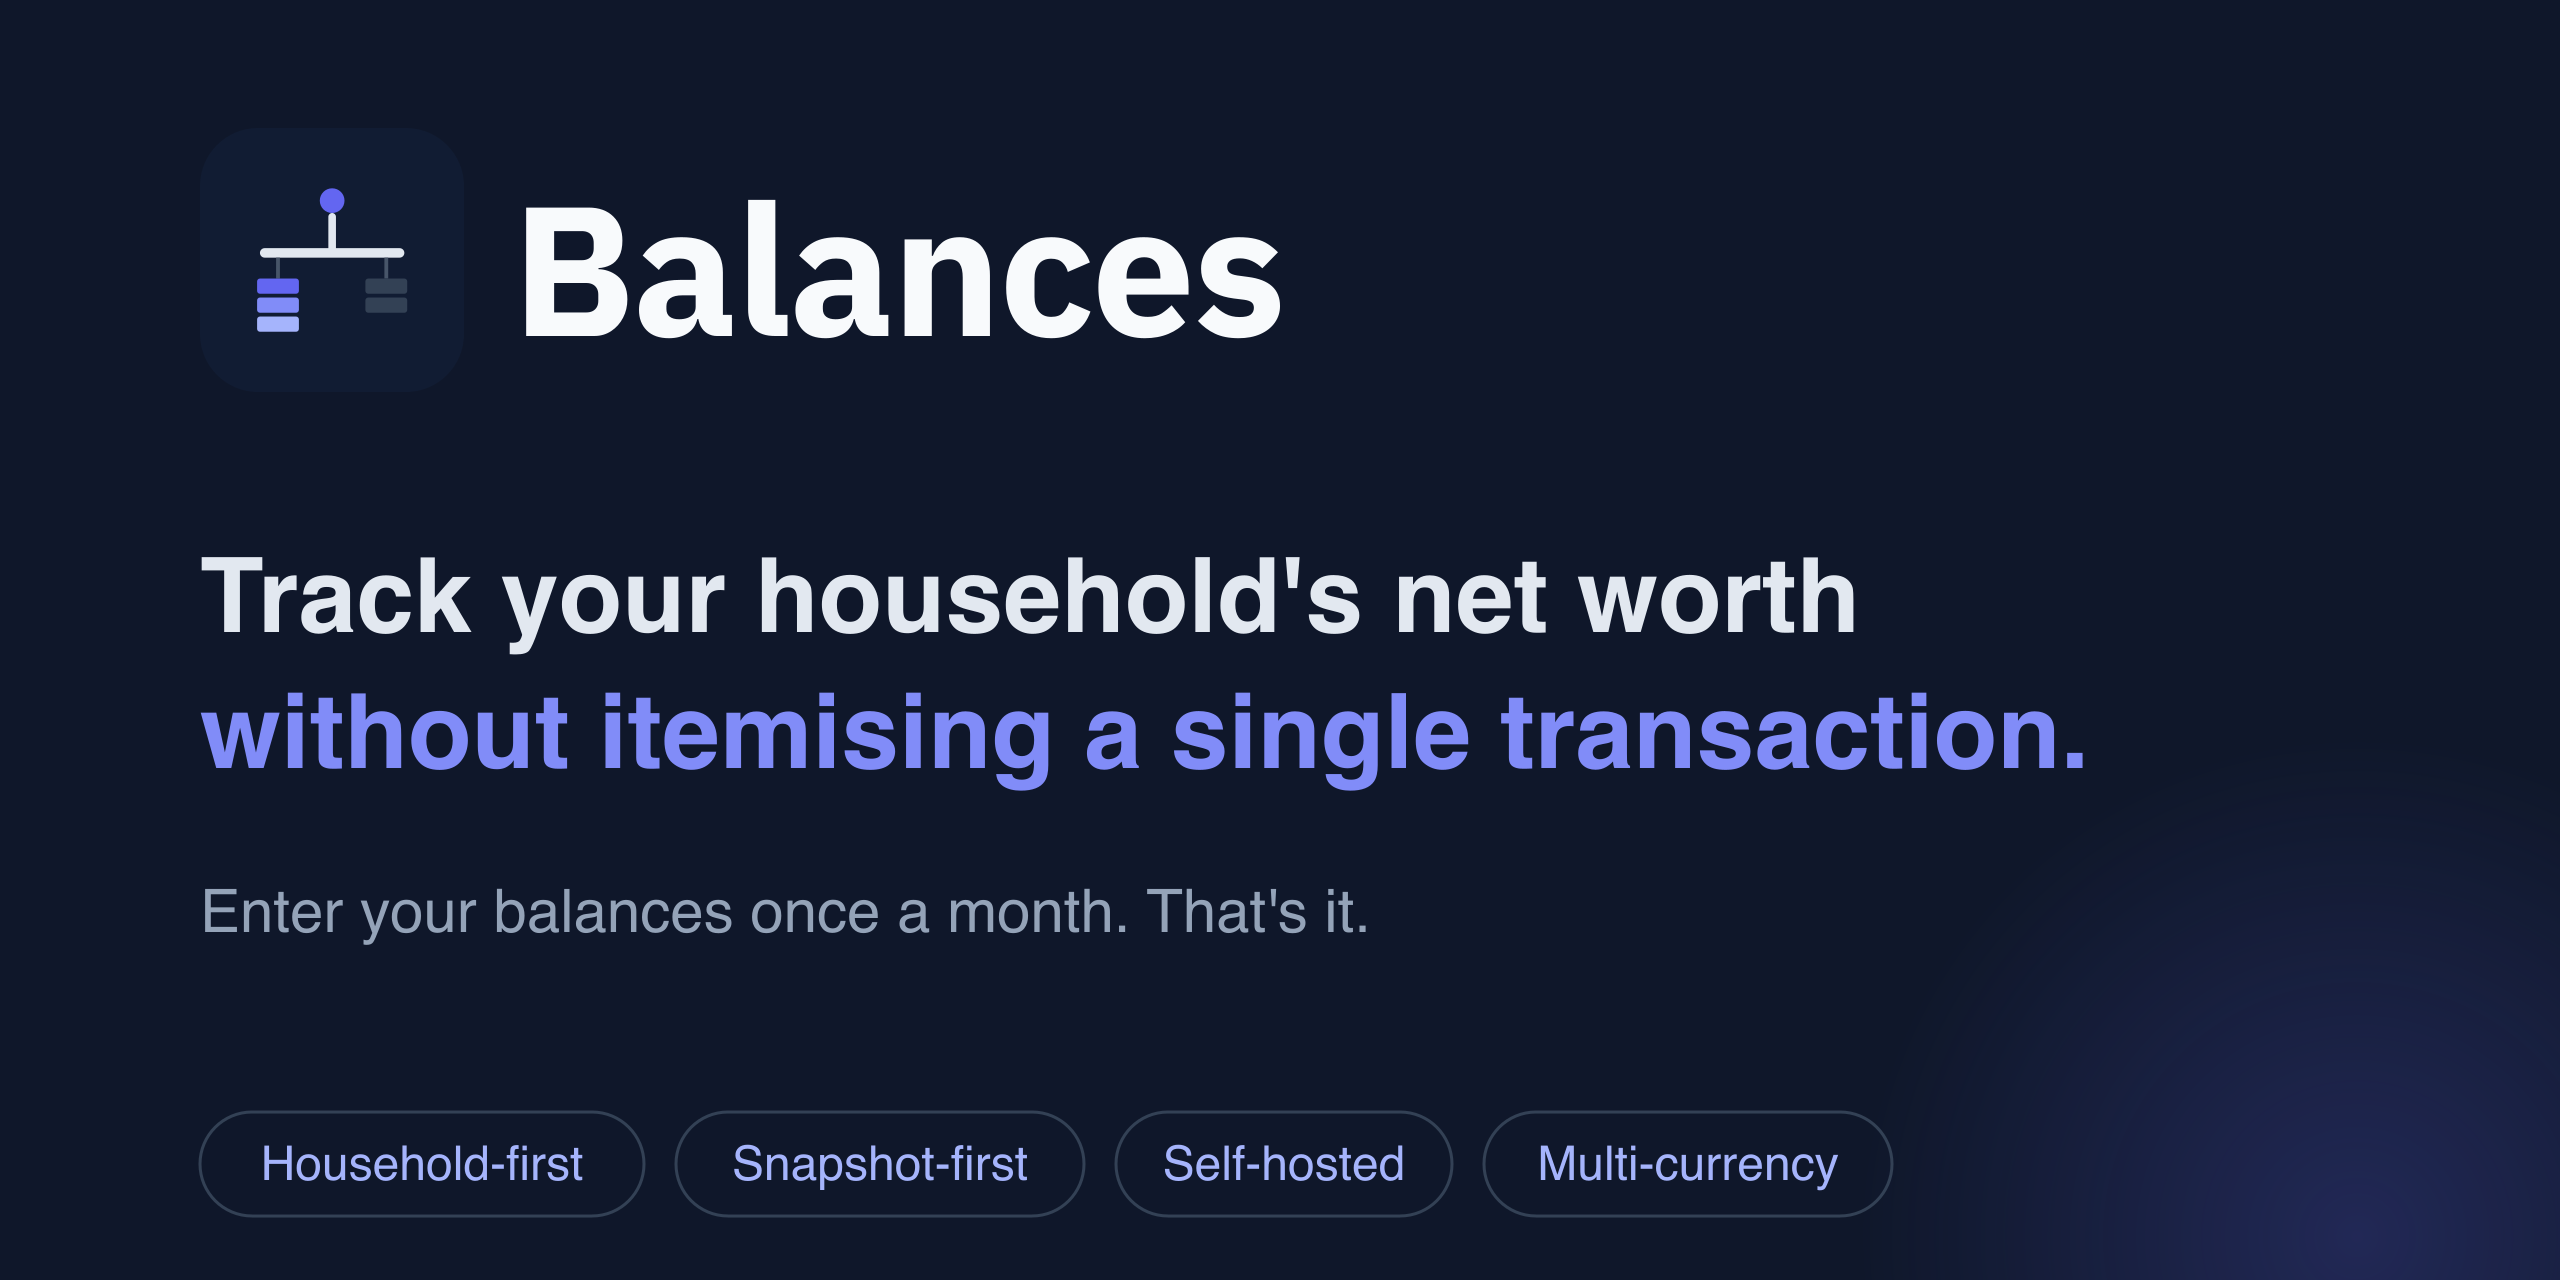
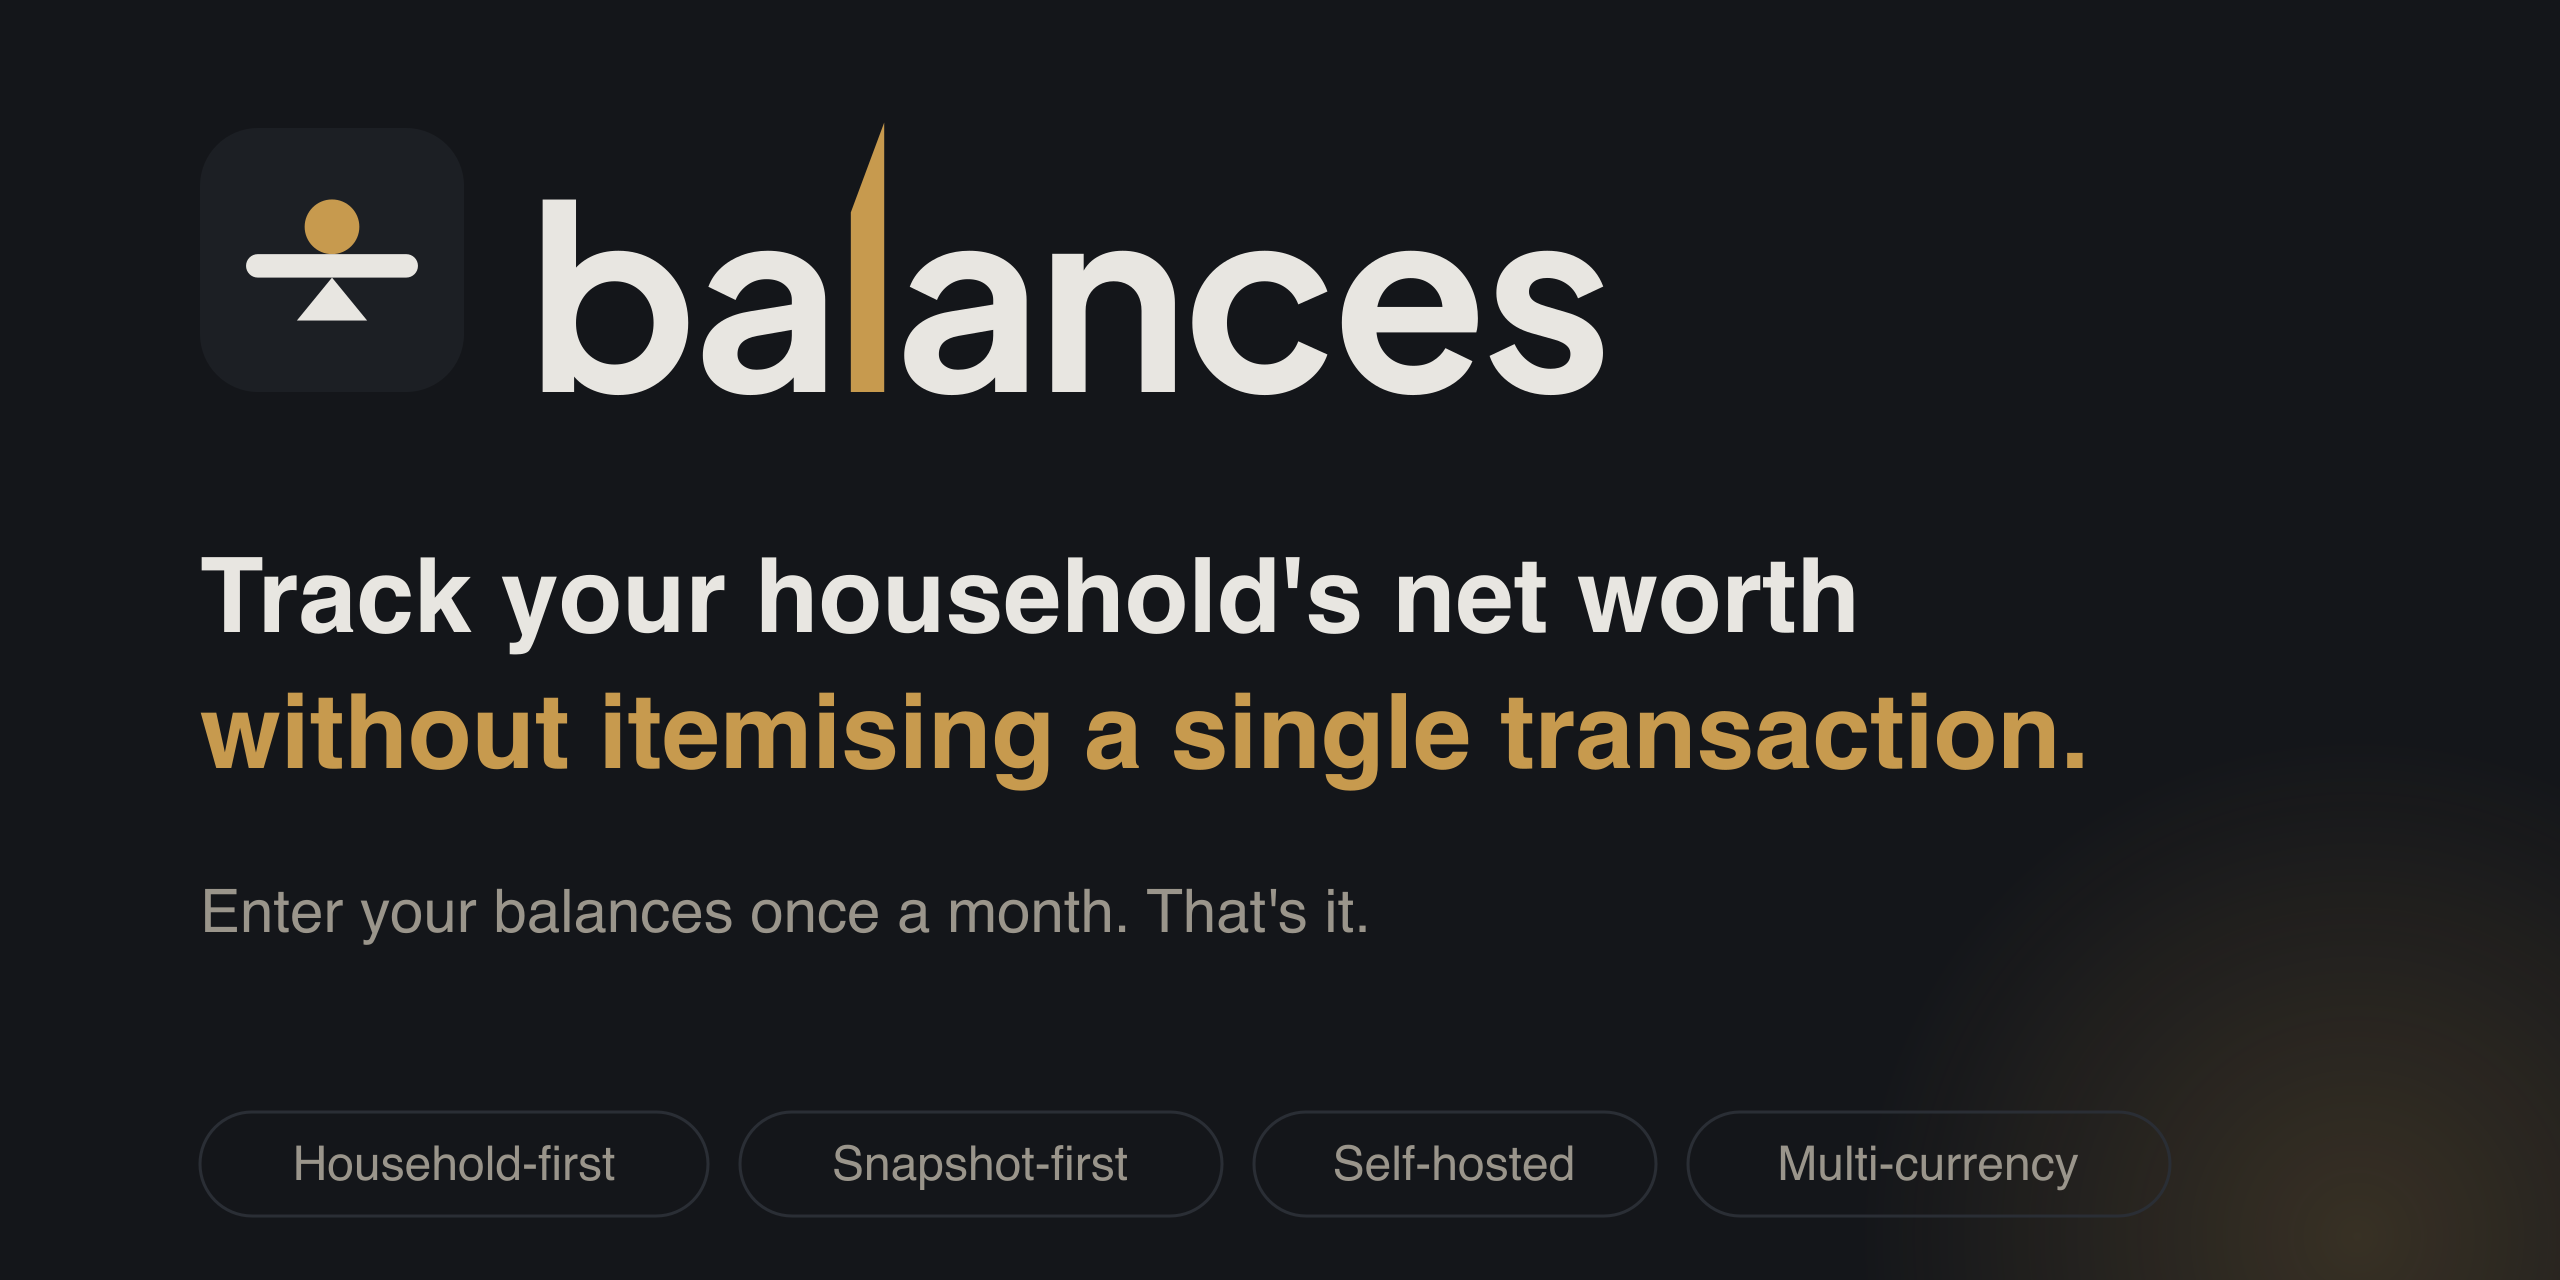
Rebrand to Graphite & Brass, matching balances-v2 (ADR-0054) (#33)
The app repo retired its indigo balance-scale identity for Graphite &
Brass — warm graphite neutrals, a muted brass accent, and a lowercase
outlined "balances" wordmark. Bring the landing page in line, per
CONTEXT.md's rule that this site mirrors the app's brand assets and
design tokens verbatim.

- Copy the new wordmark SVGs, favicon, and social card from
  balances-v2 (docs/brand/svg, docs/brand/social-card.png).
- Replace the indigo/stone CSS tokens with the app's Graphite & Brass
  oklch values (light + dark), copied verbatim from
  frontend/src/index.css.
- Update CONTEXT.md's brand-assets section to cite ADR-0054 and note
  the wordmark's outlined Plus Jakarta Sans has no runtime footprint
  (the app's UI face stays Geist, unaffected here).
- Fix SiteFooter's "— built in the open." caption, which sat visibly
  below the new wordmark's baseline: the new mark's tall brass "l"
  post carries more empty space below its baseline than the old mark
  did. Flattened the nested flex wordmark wrapper (baseline synthesis
  through nested flex containers is inconsistently implemented across
  browsers) and corrected the image's baseline offset using the SVG's
  own viewBox geometry.

diff --git a/src/styles/global.css b/src/styles/global.css
@@ -1,38 +1,39 @@
 /* Design tokens copied verbatim from the app repo (kerti/balances-v2,
    frontend/src/index.css) — the app is the source of truth (CONTEXT.md,
-   "Brand assets"). Base color: Stone (warm neutral); theme + chart color:
-   Indigo — matches the logo accent #6366F1 (docs/brand/logo.md), the
-   Tailwind v4 oklch indigo-300…700 ramp. If the app's palette moves,
-   re-copy these values; don't fork the look here. */
+   "Brand assets"). Brand: Graphite & Brass (ADR-0054) — warm graphite
+   neutrals with a muted brass accent (matches the logo accent #B08947 /
+   deep #8A6A30, docs/brand/logo.md), replacing the old indigo/stone
+   pairing. If the app's palette moves, re-copy these values; don't fork
+   the look here. */
 
 @import '@fontsource-variable/geist';
 
 :root {
   color-scheme: light;
-  --background: oklch(0.97 0.002 106.424);
-  --foreground: oklch(0.147 0.004 49.25);
-  --card: oklch(0.97 0.002 106.424);
-  --card-foreground: oklch(0.147 0.004 49.25);
-  --primary: oklch(0.511 0.262 276.966);
-  --primary-foreground: oklch(0.985 0.001 106.423);
-  --secondary: oklch(0.94 0.001 106.424);
-  --secondary-foreground: oklch(0.216 0.006 56.043);
-  --muted: oklch(0.94 0.001 106.424);
-  --muted-foreground: oklch(0.553 0.013 58.071);
-  --accent: oklch(0.94 0.001 106.424);
-  --accent-foreground: oklch(0.216 0.006 56.043);
-  --border: oklch(0.89 0.003 48.717);
-  --ring: oklch(0.511 0.262 276.966);
-  --chart-1: oklch(0.585 0.233 277.117);
-  --chart-2: oklch(0.511 0.262 276.966);
-  --chart-3: oklch(0.457 0.24 277.023);
-  --chart-4: oklch(0.673 0.182 276.935);
-  --chart-5: oklch(0.785 0.115 274.713);
+  --background: oklch(0.971 0.006 84.6);
+  --foreground: oklch(0.246 0.015 256.8);
+  --card: oklch(1 0 0);
+  --card-foreground: oklch(0.246 0.015 256.8);
+  --primary: oklch(0.544 0.086 80.1);
+  --primary-foreground: oklch(1 0 0);
+  --secondary: oklch(0.941 0.01 81.8);
+  --secondary-foreground: oklch(0.246 0.015 256.8);
+  --muted: oklch(0.944 0.009 84.6);
+  --muted-foreground: oklch(0.517 0.019 79.3);
+  --accent: oklch(0.941 0.01 81.8);
+  --accent-foreground: oklch(0.246 0.015 256.8);
+  --border: oklch(0.912 0.014 78.3);
+  --ring: oklch(0.544 0.086 80.1);
+  --chart-1: oklch(0.654 0.097 78.9);
+  --chart-2: oklch(0.544 0.086 80.1);
+  --chart-3: oklch(0.505 0.023 250.6);
+  --chart-4: oklch(0.661 0.026 262.1);
+  --chart-5: oklch(0.796 0.091 84.3);
   --radius: 0.625rem;
 
   /* Landing-only compositional tokens (not copied from the app) — built from
      the tokens above, used for section banding and decorative glows. */
-  --section-tint: oklch(0.955 0.001 106.423);
+  --section-tint: oklch(0.953 0.009 84.6);
   --glow: var(--foreground);
 }
 
@@ -41,25 +42,25 @@
 @media (prefers-color-scheme: dark) {
   :root {
     color-scheme: dark;
-    --background: oklch(0.19 0.004 49.25);
-    --foreground: oklch(0.985 0.001 106.423);
-    --card: oklch(0.24 0.006 56.043);
-    --card-foreground: oklch(0.985 0.001 106.423);
-    --primary: oklch(0.673 0.182 276.935);
-    --primary-foreground: oklch(0.216 0.006 56.043);
-    --secondary: oklch(0.29 0.007 34.298);
-    --secondary-foreground: oklch(0.985 0.001 106.423);
-    --muted: oklch(0.29 0.007 34.298);
-    --muted-foreground: oklch(0.709 0.01 56.259);
-    --accent: oklch(0.29 0.007 34.298);
-    --accent-foreground: oklch(0.985 0.001 106.423);
-    --border: oklch(1 0 0 / 10%);
-    --ring: oklch(0.673 0.182 276.935);
-    --chart-1: oklch(0.673 0.182 276.935);
-    --chart-2: oklch(0.585 0.233 277.117);
-    --chart-3: oklch(0.511 0.262 276.966);
-    --chart-4: oklch(0.785 0.115 274.713);
-    --chart-5: oklch(0.87 0.065 274.039);
+    --background: oklch(0.2 0.009 264.4);
+    --foreground: oklch(0.925 0.007 88.6);
+    --card: oklch(0.238 0.011 260.7);
+    --card-foreground: oklch(0.925 0.007 88.6);
+    --primary: oklch(0.713 0.108 78.7);
+    --primary-foreground: oklch(0.246 0.015 256.8);
+    --secondary: oklch(0.268 0.014 261.7);
+    --secondary-foreground: oklch(0.925 0.007 88.6);
+    --muted: oklch(0.268 0.014 261.7);
+    --muted-foreground: oklch(0.671 0.016 84.6);
+    --accent: oklch(0.268 0.014 261.7);
+    --accent-foreground: oklch(0.925 0.007 88.6);
+    --border: oklch(0.3 0.014 261.7);
+    --ring: oklch(0.713 0.108 78.7);
+    --chart-1: oklch(0.713 0.108 78.7);
+    --chart-2: oklch(0.796 0.091 84.3);
+    --chart-3: oklch(0.661 0.026 262.1);
+    --chart-4: oklch(0.505 0.023 250.6);
+    --chart-5: oklch(0.749 0.09 83.5);
     --section-tint: var(--secondary);
     --glow: var(--primary);
   }

diff --git a/CONTEXT.md b/CONTEXT.md
@@ -35,12 +35,18 @@ The **favicon / app icon** (`public/favicon.svg`) is a mirror of the app's icon 
 two byte-identical; if the app's icon changes, copy it over here rather than editing the copy in
 this repo. Any future shared brand marks (logo, wordmark) follow the same rule.
 
-**Design tokens** (decided 2026-07-06) follow the same source-of-truth rule: the landing copies the
-app's tokens verbatim — **Geist Variable** (self-hosted via `@fontsource`, no external font CDN),
-indigo primary `oklch(0.511 0.262 276.966)` (matches the logo accent `#6366F1`, `docs/brand/logo.md`
-in the app repo), stone neutrals, the shadcn indigo ramp — from `frontend/src/index.css` in the app
-repo. If the app's palette moves, re-copy; don't fork the look here (app repo issue #93: the
-surfaces must feel like one product).
+**Design tokens** (decided 2026-07-06; palette updated 2026-09-02) follow the same source-of-truth
+rule: the landing copies the app's tokens verbatim — **Geist Variable** (self-hosted via
+`@fontsource`, no external font CDN, unaffected by the brand's wordmark typeface — see below),
+brand **Graphite & Brass** (ADR-0054 in the app repo) — warm graphite neutrals, brass primary
+`oklch(0.544 0.086 80.1)` (matches the deep logo accent `#8A6A30`, `docs/brand/logo.md` in the app
+repo) — from `frontend/src/index.css` in the app repo. If the app's palette moves, re-copy; don't
+fork the look here (app repo issue #93: the surfaces must feel like one product).
+
+The wordmark itself is set in **Plus Jakarta Sans 700**, outlined to paths in the shipped SVGs — it
+is not a runtime font dependency (no `@font-face`, no npm package) and is unrelated to the app's UI
+typeface, which stays Geist. Don't add Plus Jakarta Sans as a webfont here; the outlined SVGs are
+already self-contained.
 
 ## Value proposition (what the copy sells)
 
